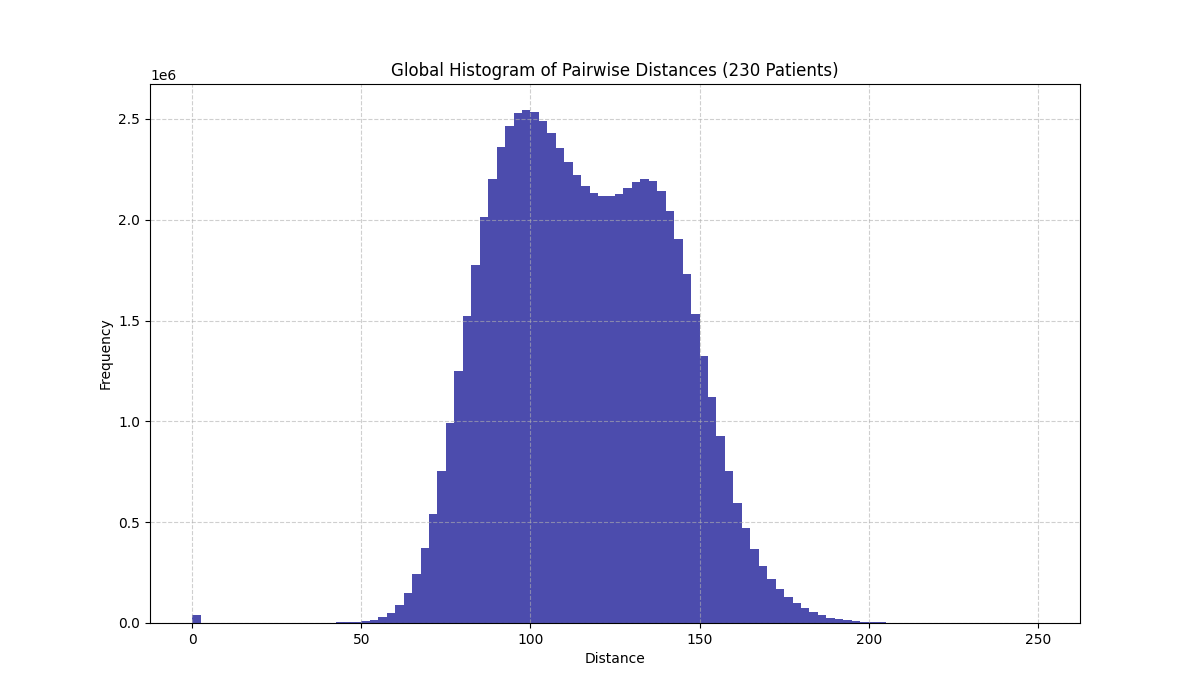
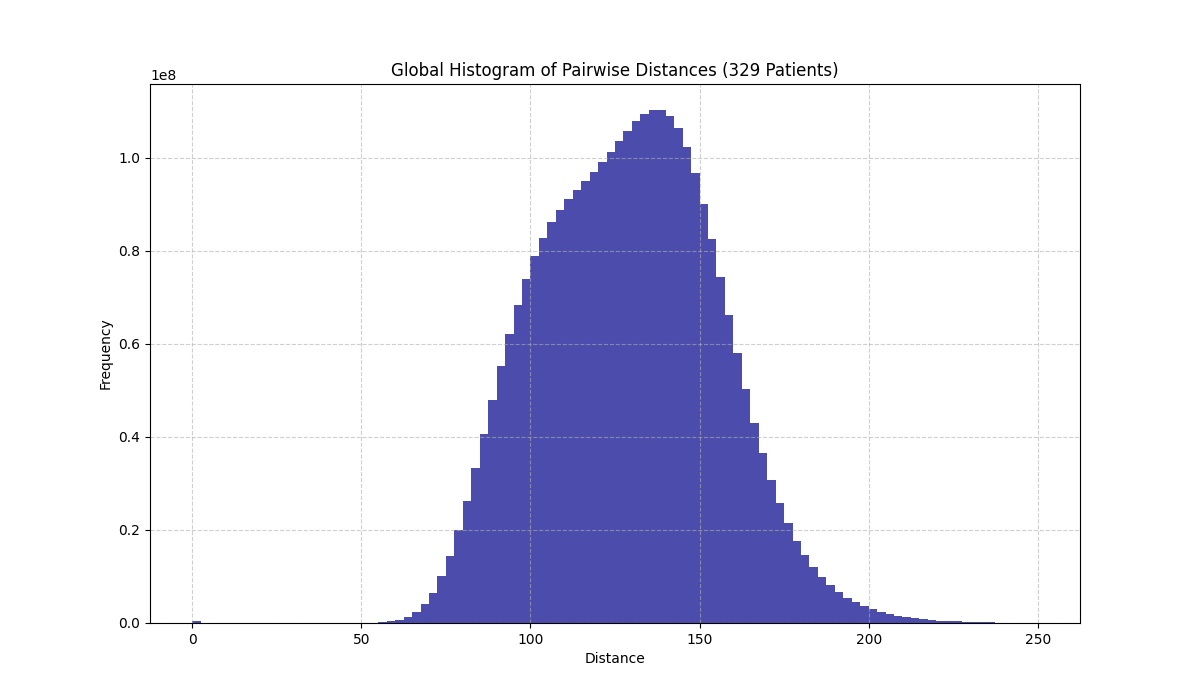
feat(graphs): optimize parallel worker count and update paths for NEW_DATASET_cls_2048

diff --git a/enric/graph_creation/fully_connected/fully_connected_graph_creation.py b/enric/graph_creation/fully_connected/fully_connected_graph_creation.py
@@ -47,7 +47,7 @@ def _fully_connected_worker(patient_item, graph_dir, device):
     return patient_id
 
 
-def fully_connected_graph_creation(patient_dict, num_workers=4):
+def fully_connected_graph_creation(patient_dict, num_workers=2):
     """
     Iterates through all the patients, creates a fully connected graph for each,
     and saves each graph to disk.
@@ -62,16 +62,16 @@ def fully_connected_graph_creation(patient_dict, num_workers=4):
     # --- 1. Setup the Output Directory ---
     graph_dir = Path(__file__).parent / "graphs"
     graph_dir.mkdir(parents=True, exist_ok=True)
-
+    
     start_time = time.time()
     print(f"Starting parallel fully connected graph creation for {len(patient_dict)} patients on {device}...")
 
     # --- 2. Process Patients in Parallel ---
     # We use 'spawn' to ensure CUDA contexts are handled correctly in child processes
     ctx = mp.get_context('spawn')
-
+    
     worker_fn = partial(_fully_connected_worker, graph_dir=graph_dir, device=device)
-
+    
     total_patients = len(patient_dict)
     with ctx.Pool(processes=num_workers) as pool:
         for i, patient_id in enumerate(pool.imap_unordered(worker_fn, patient_dict.items())):
@@ -85,9 +85,3 @@ def fully_connected_graph_creation(patient_dict, num_workers=4):
     print(f"Total time: {duration // 60:.0f}m {duration % 60:.0f}s")
     print("-" * 50)
 
-    duration = end_time - start_time
-    print("-" * 50)
-    print(f"Fully connected graph creation complete.")
-    print(f"Saved {len(list(graph_dir.glob('*.pt')))} graphs to '{graph_dir}' directory.")
-    print(f"Total time: {duration // 60:.0f}m {duration % 60:.0f}s")
-    print("-" * 50)

diff --git a/enric/graph_creation/knn/cosine_knn_graph_creation.py b/enric/graph_creation/knn/cosine_knn_graph_creation.py
@@ -20,15 +20,14 @@ def _cosine_knn_worker(patient_item, k, graph_dir, device):
     # Extract patch-level features and move to GPU
     node_features = torch.stack([m['features'] for m in patient_data['megapatches']]).to(device)
     
-    # L2-Normalize the features. Euclidean distance on L2-normalized vectors 
-    # is mathematically equivalent to ranking by Cosine Similarity.
+    # L2-Normalize the features for Cosine Similarity
     normalized_features = F.normalize(node_features, p=2, dim=1)
 
     graph_label = patient_data['label']
     histodata = patient_data['histodata']
 
-    # Create graph edges based on Cosine Similarity (via normalized Euclidean)
-    # This will automatically run on GPU if normalized_features is a CUDA tensor
+    # Create graph edges based on Cosine Similarity using the native library function
+    # This runs on GPU automatically
     edge_index = knn_graph(normalized_features, k=k, loop=True)
 
     # Calculate edge attributes (cosine similarity)
@@ -52,7 +51,7 @@ def _cosine_knn_worker(patient_item, k, graph_dir, device):
     return patient_id
 
 
-def cosine_knn_graph_creation(patient_dict, k=8, num_workers=4):
+def cosine_knn_graph_creation(patient_dict, k=8, num_workers=2):
     """
     Creates a graph for each patient using KNN based on Cosine Similarity
     of the CLS features, and saves each graph to disk.

diff --git a/enric/graph_creation/radius/radius_graph_creation.py b/enric/graph_creation/radius/radius_graph_creation.py
@@ -20,8 +20,8 @@ def _radius_worker(patient_item, r, graph_dir, device):
     # Extract patch-level features and move to GPU
     node_features = torch.stack([m['features'] for m in patient_data['megapatches']]).to(device)
 
-    # Create graph edges based on a set radius from a node in the FEATURE space
-    # This will run on GPU automatically
+    # Create graph edges based on a set radius using the native library function
+    # This runs on GPU automatically
     edge_index = radius_graph(node_features, r=r, loop=True)
 
     # Calculate edge attributes natively on GPU
@@ -48,7 +48,7 @@ def _radius_worker(patient_item, r, graph_dir, device):
     return patient_id
 
 
-def radius_graph_creation(patient_dict, r=5, num_workers=4):
+def radius_graph_creation(patient_dict, r=5, num_workers=2):
     """
     Iterates through all the patients, creates a connected graph based on a set radius for each,
     and saves each graph to disk.

diff --git a/enric/graph_creation/knn/euclidean_knn_graph_creation.py b/enric/graph_creation/knn/euclidean_knn_graph_creation.py
@@ -23,7 +23,6 @@ def _euclidean_knn_worker(patient_item, k, graph_dir, device):
     histodata = patient_data['histodata']
 
     # Create graph edges based on the K-Nearest Neighbors in the FEATURE space
-    # Note: knn_graph computes directed edges from k-nearest neighbors.
     # This runs on GPU automatically if node_features is on CUDA
     edge_index = knn_graph(node_features, k=k, loop=True)
 
@@ -50,7 +49,7 @@ def _euclidean_knn_worker(patient_item, k, graph_dir, device):
     return patient_id
 
 
-def euclidean_knn_graph_creation(patient_dict, k=8, num_workers=4):
+def euclidean_knn_graph_creation(patient_dict, k=8, num_workers=2):
     """
     Iterates through all the patients, creates a graph for each patient using
     KNN on CLS features, and saves each graph to disk.

diff --git a/enric/graph_creation/graph_creation_pipeline.py b/enric/graph_creation/graph_creation_pipeline.py
@@ -32,11 +32,11 @@ def main():
     # --- Graph creation ---
     # Uncomment the ones you want to run
     
-    # print("\nCreating Euclidean KNN Graphs (k=5)...")
-    # euclidean_knn_graph_creation(patient_dict, 1)
+    print("\nCreating Euclidean KNN Graphs (k=5)...")
+    euclidean_knn_graph_creation(patient_dict, 1)
 
-    print("\nCreating Cosine KNN Graphs (k=10)...")
-    cosine_knn_graph_creation(patient_dict, 10)
+    # print("\nCreating Cosine KNN Graphs (k=10)...")
+    # cosine_knn_graph_creation(patient_dict, 10)
 
     #print("\nCreating Cosine KNN Graphs (k=50)...")
     #cosine_knn_graph_creation(patient_dict, 50)

diff --git a/enric/graph_creation/knn/distance_study/knn_distance_study.py b/enric/graph_creation/knn/distance_study/knn_distance_study.py
@@ -186,7 +186,7 @@ def analyze_neighbor_density(patient_dict):
 # MAIN EXECUTION
 # ==================================================================
 if __name__ == '__main__':
-    npz_path = root_path / "Data" / "cls_ALL"
+    npz_path = root_path / "Data" / "NEW_DATASET_cls_2048"
     pat_nx_dict, pat_histodata_dict, features, affectation, hospitals, patients, slides, coords = load_cls_metadata(npz_path)
     patient_dict = patient_dict_builder(features, affectation, hospitals, patients, slides, coords, pat_nx_dict, pat_histodata_dict)
 
